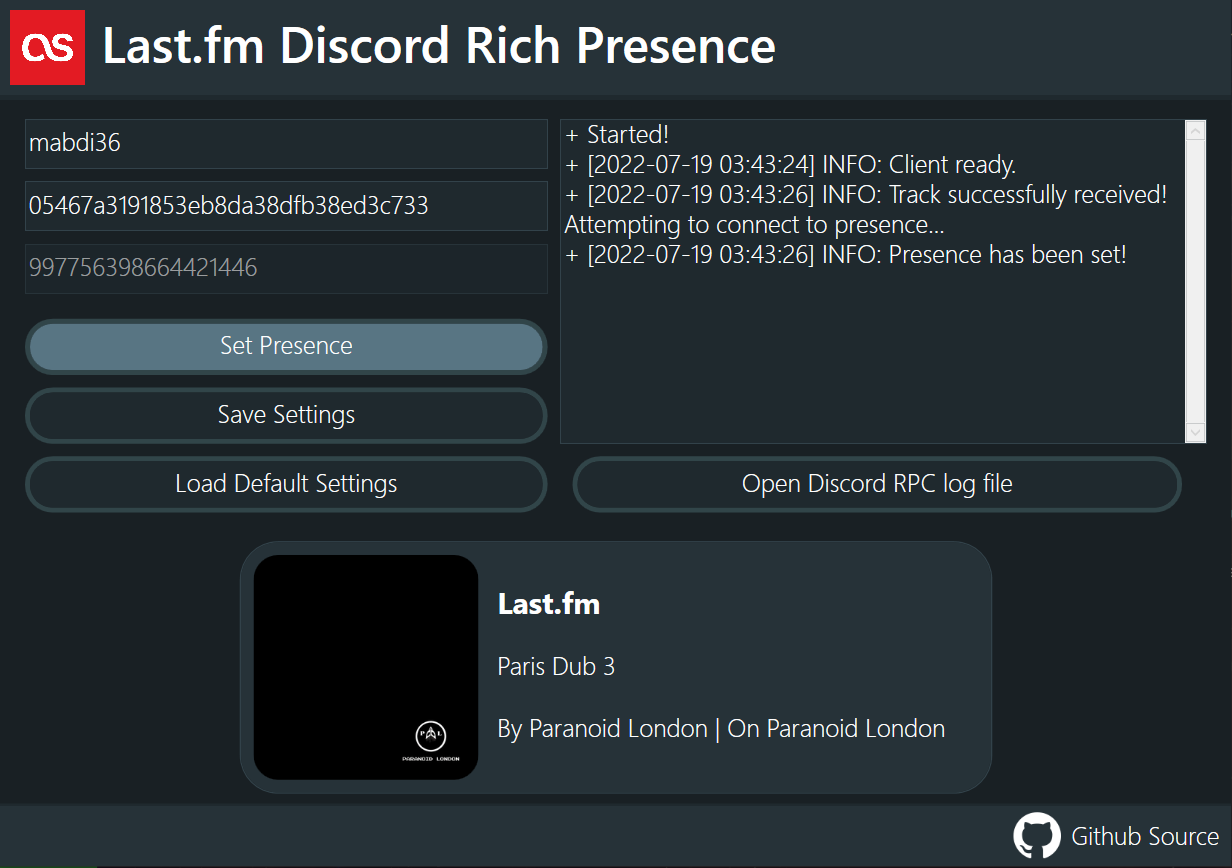
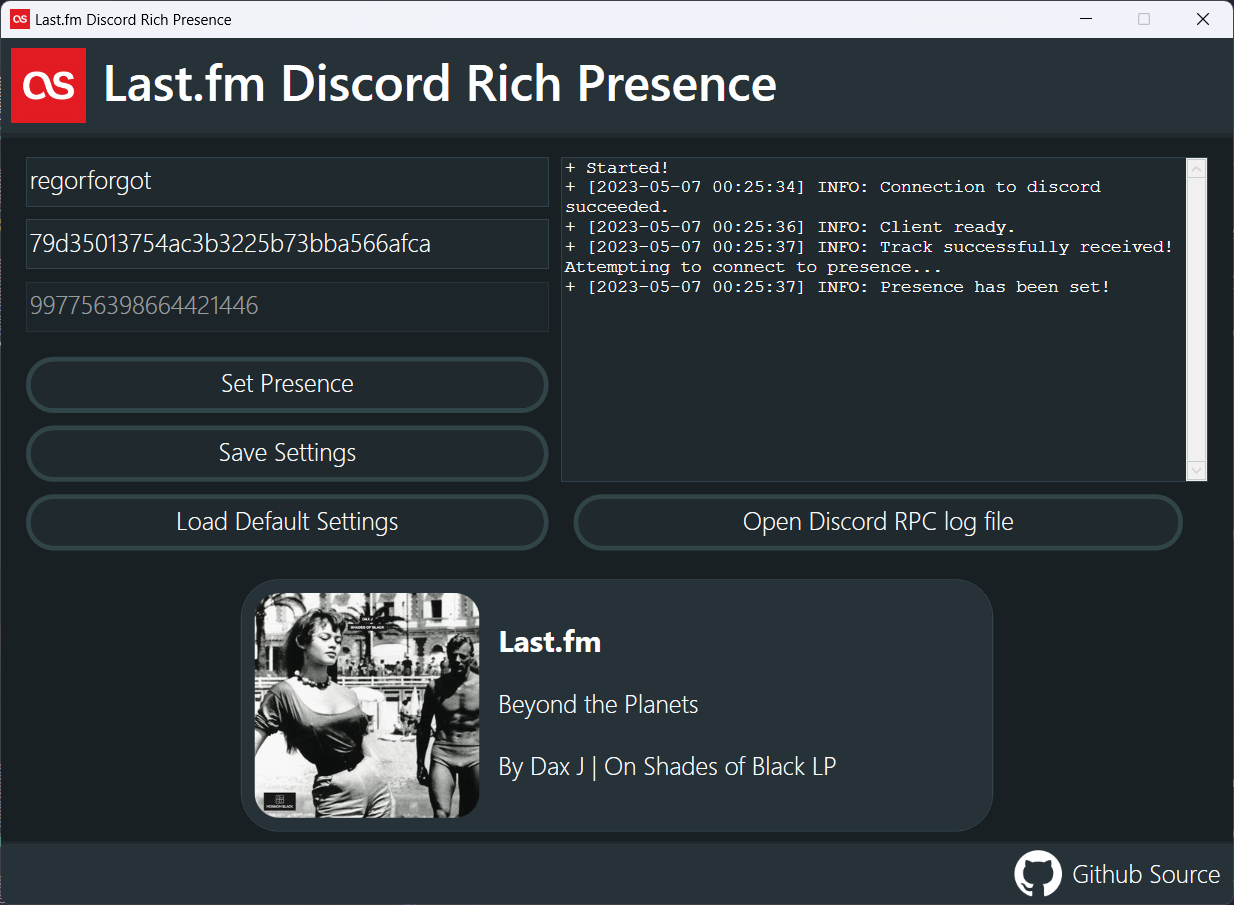
Updated outdated README and images

Changed region(s): [[0.0, 0.0, 1.0, 0.9021], [0.0, 0.9332, 1.0, 1.0]]

diff --git a/README.md b/README.md
@@ -1,5 +1,6 @@
 # Last.fm Discord Rich Presence
-
+[![Codacy Badge](https://img.shields.io/codacy/grade/e0da00a962b5448cbd888887b9f9a77f)](https://www.codacy.com/gh/RegorForgotTheirPassword/LastfmDiscordRPC/dashboard?utm_source=github.com&amp;utm_medium=referral&amp;utm_content=RegorForgotTheirPassword/LastfmDiscordRPC&amp;utm_campaign=Badge_Grade)
+![Downloads](https://img.shields.io/github/downloads/regorforgot/lastfmdiscordrpc/total)
 
 ![Presence](https://raw.githubusercontent.com/RegorForgotTheirPassword/LastfmDiscordRPC/master/Screenshots/Presence.png)
 
@@ -11,9 +12,10 @@ A simple Windows-only* application that sets your Discord presence to your last 
 
 Simply download the release of your choice, enter your username, and set the presence!
 
-**Note:** For the non-self contained releases **(recommended)**, .NET 6 Desktop Runtime must be installed on your computer
+**Please note:** This application requires the .NET 7 Desktop runtime:
 
-[Download .NET 6 x64 Runtime](https://dotnet.microsoft.com/en-us/download/dotnet/thank-you/runtime-desktop-6.0.7-windows-x64-installer)
+[Download .NET 7 x64 Runtime](https://dotnet.microsoft.com/en-us/download/dotnet/thank-you/runtime-desktop-7.0.5-windows-x64-installer)
+## Changelog
 
 
 ## Customisation
